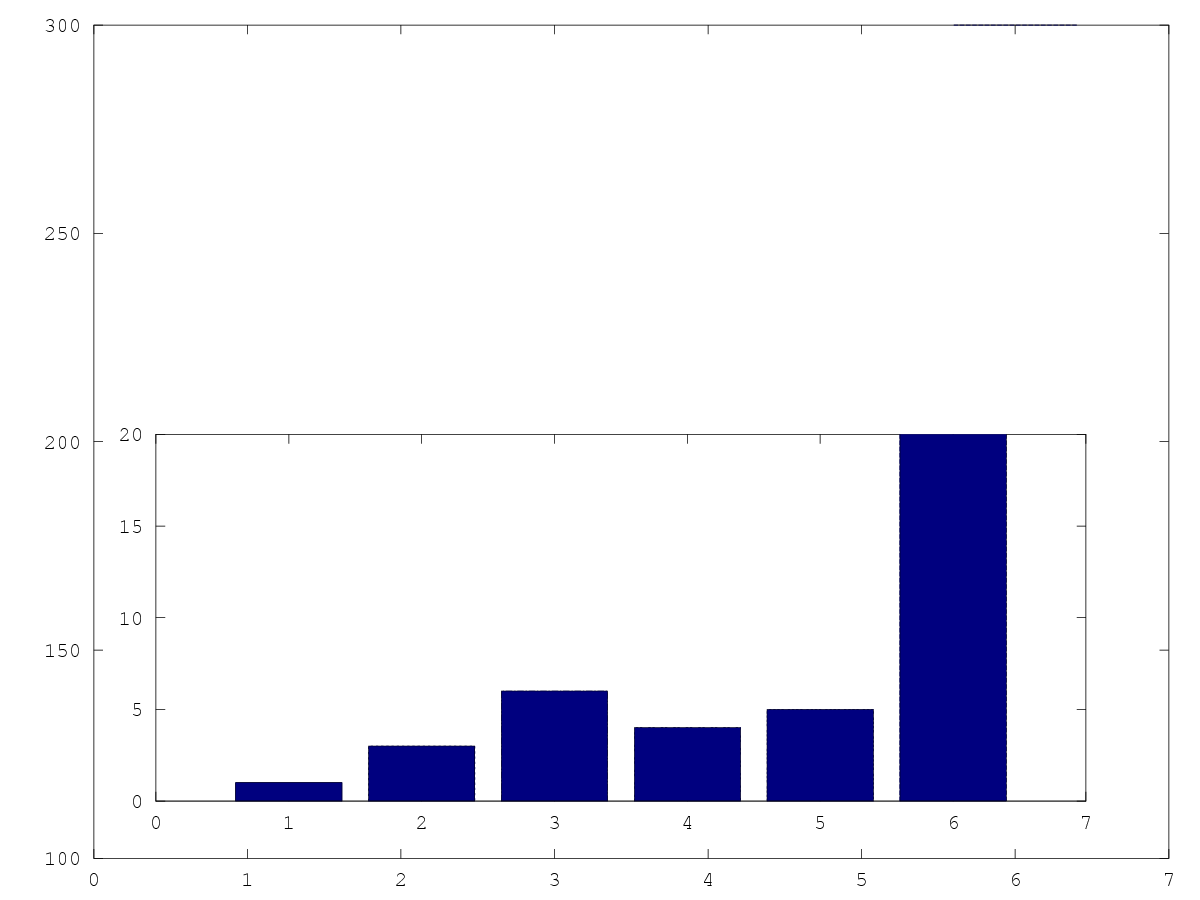
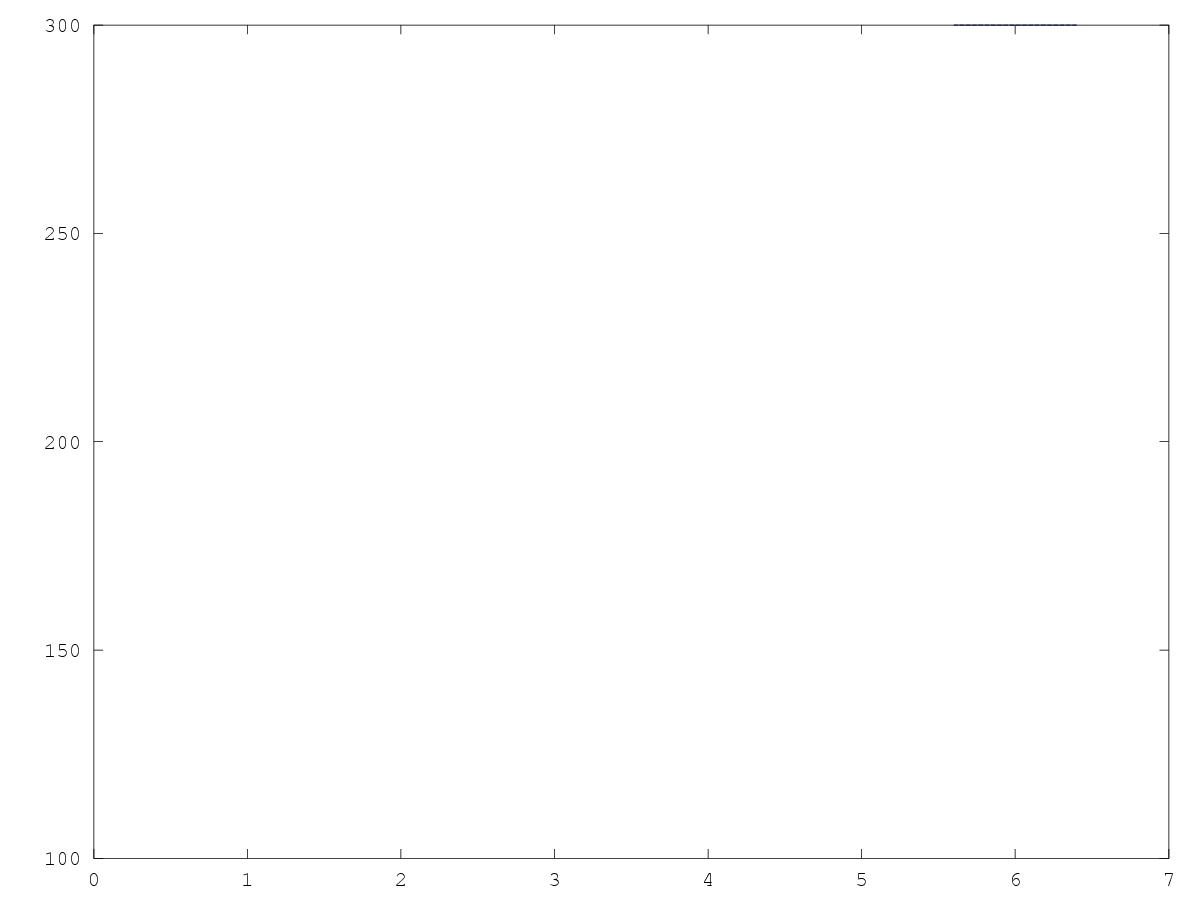
break_axis.m

Changed region(s): [[0.185, 0.4667, 0.8633, 0.9022]]

diff --git a/break_axis.m b/break_axis.m
@@ -13,11 +13,11 @@ delete(gcf);
 
 % create axis1
 %a1=axes('position',[p0(1) p0(2) p0(3)/2-.025 p0(4)]);
-a1=axes('position',[p0(1) p0(2) p0(3) p0(4)/2]);
+%a1=axes('position',[p0(1) p0(2) p0(3) p0(4)/2]);
 %a2=axes('position',[p0(1) p0(4)/2+.145 p0(3) p0(4)/2])
 %barh(a);
-bar(a);
-set(a1,'ylim',ylim1);
+%bar(a);
+%set(a1,'ylim',ylim1);
 %set(a2,'xlim',xlim,'ylim',ylim2);
 %set(a2,'xtick',[]);
 %box off;
